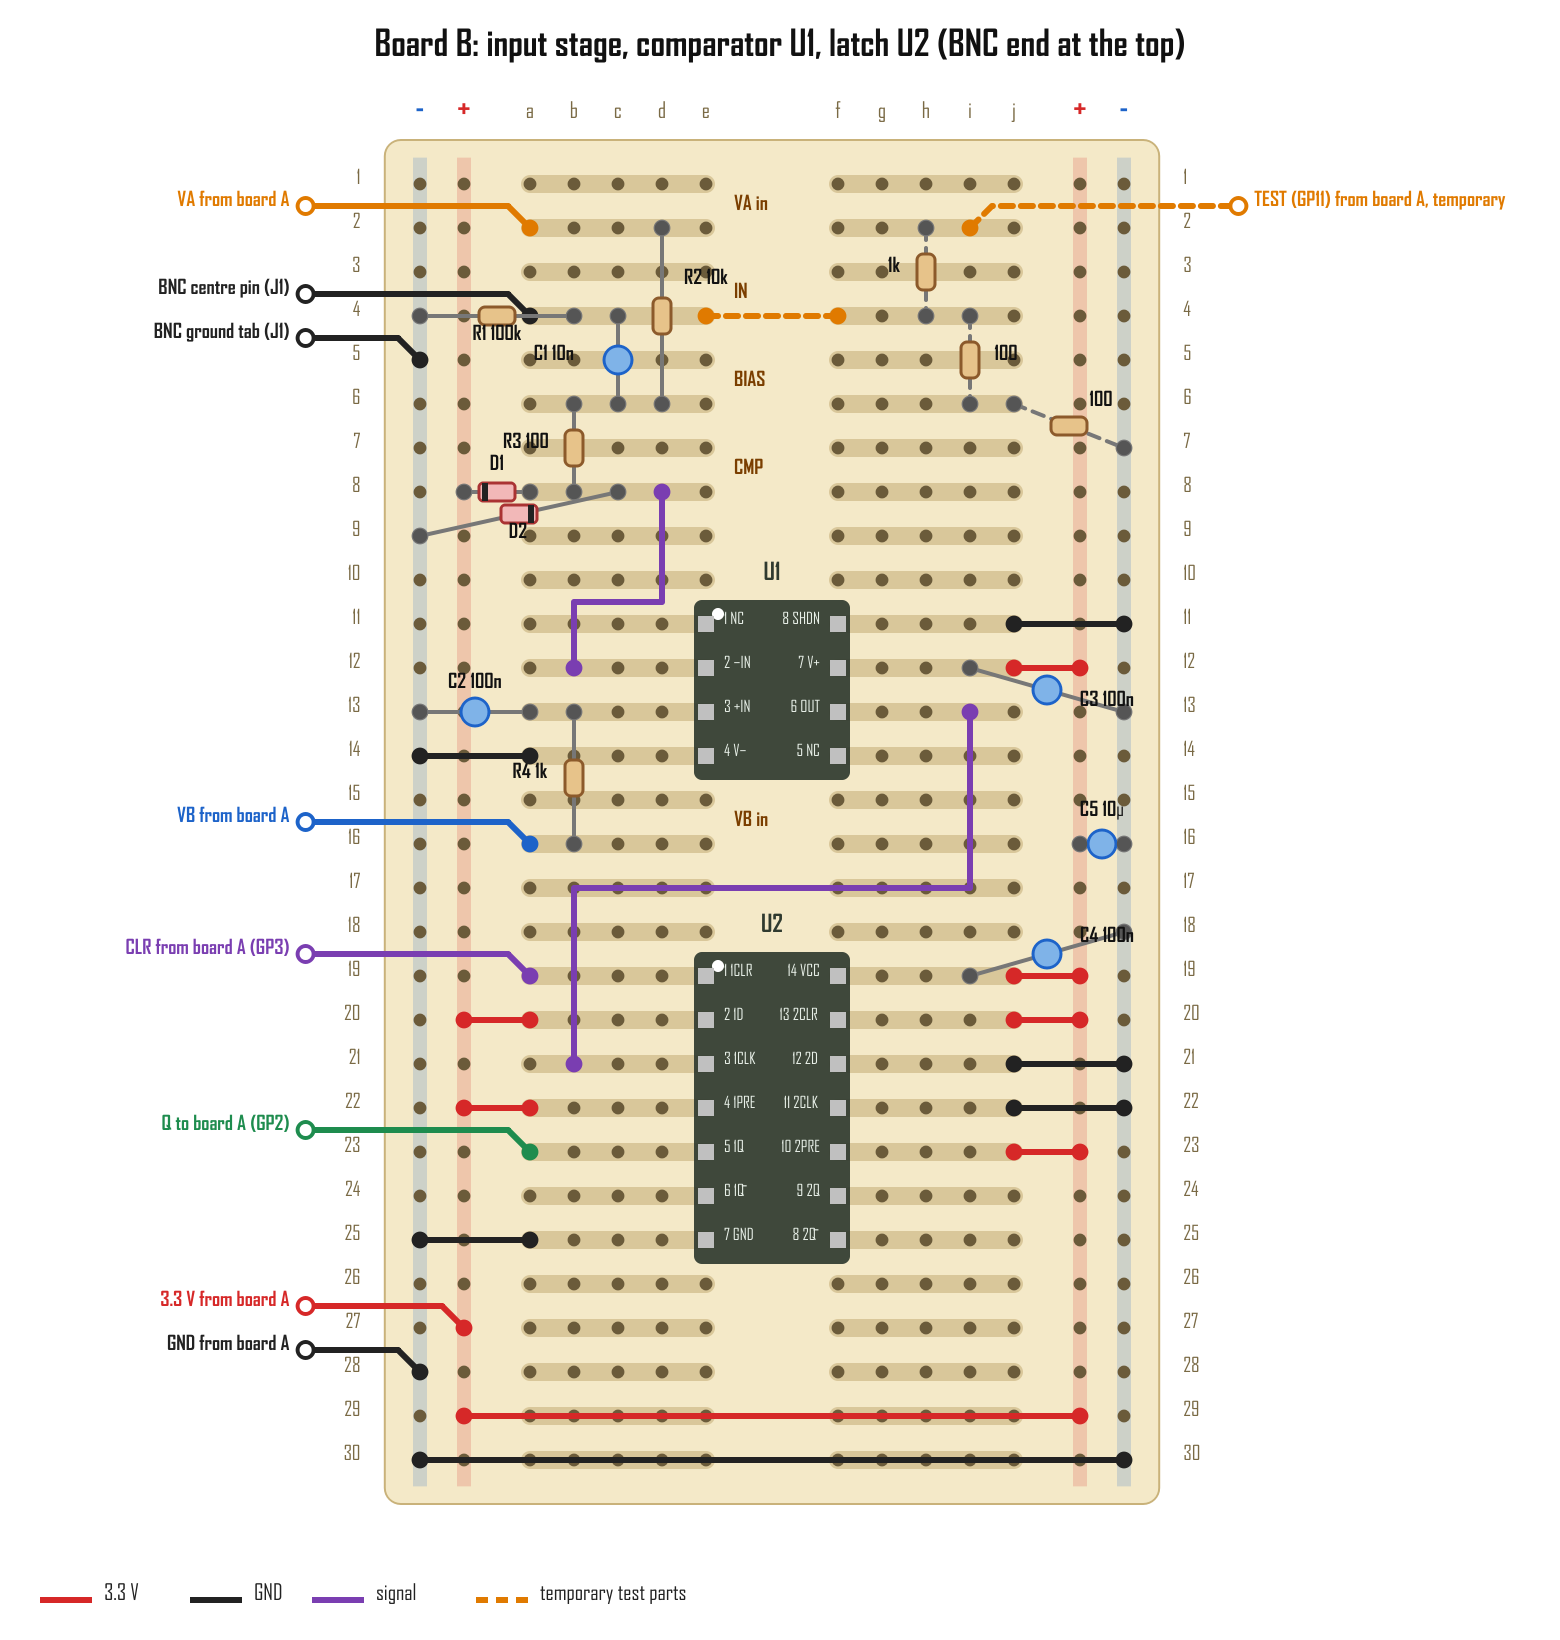
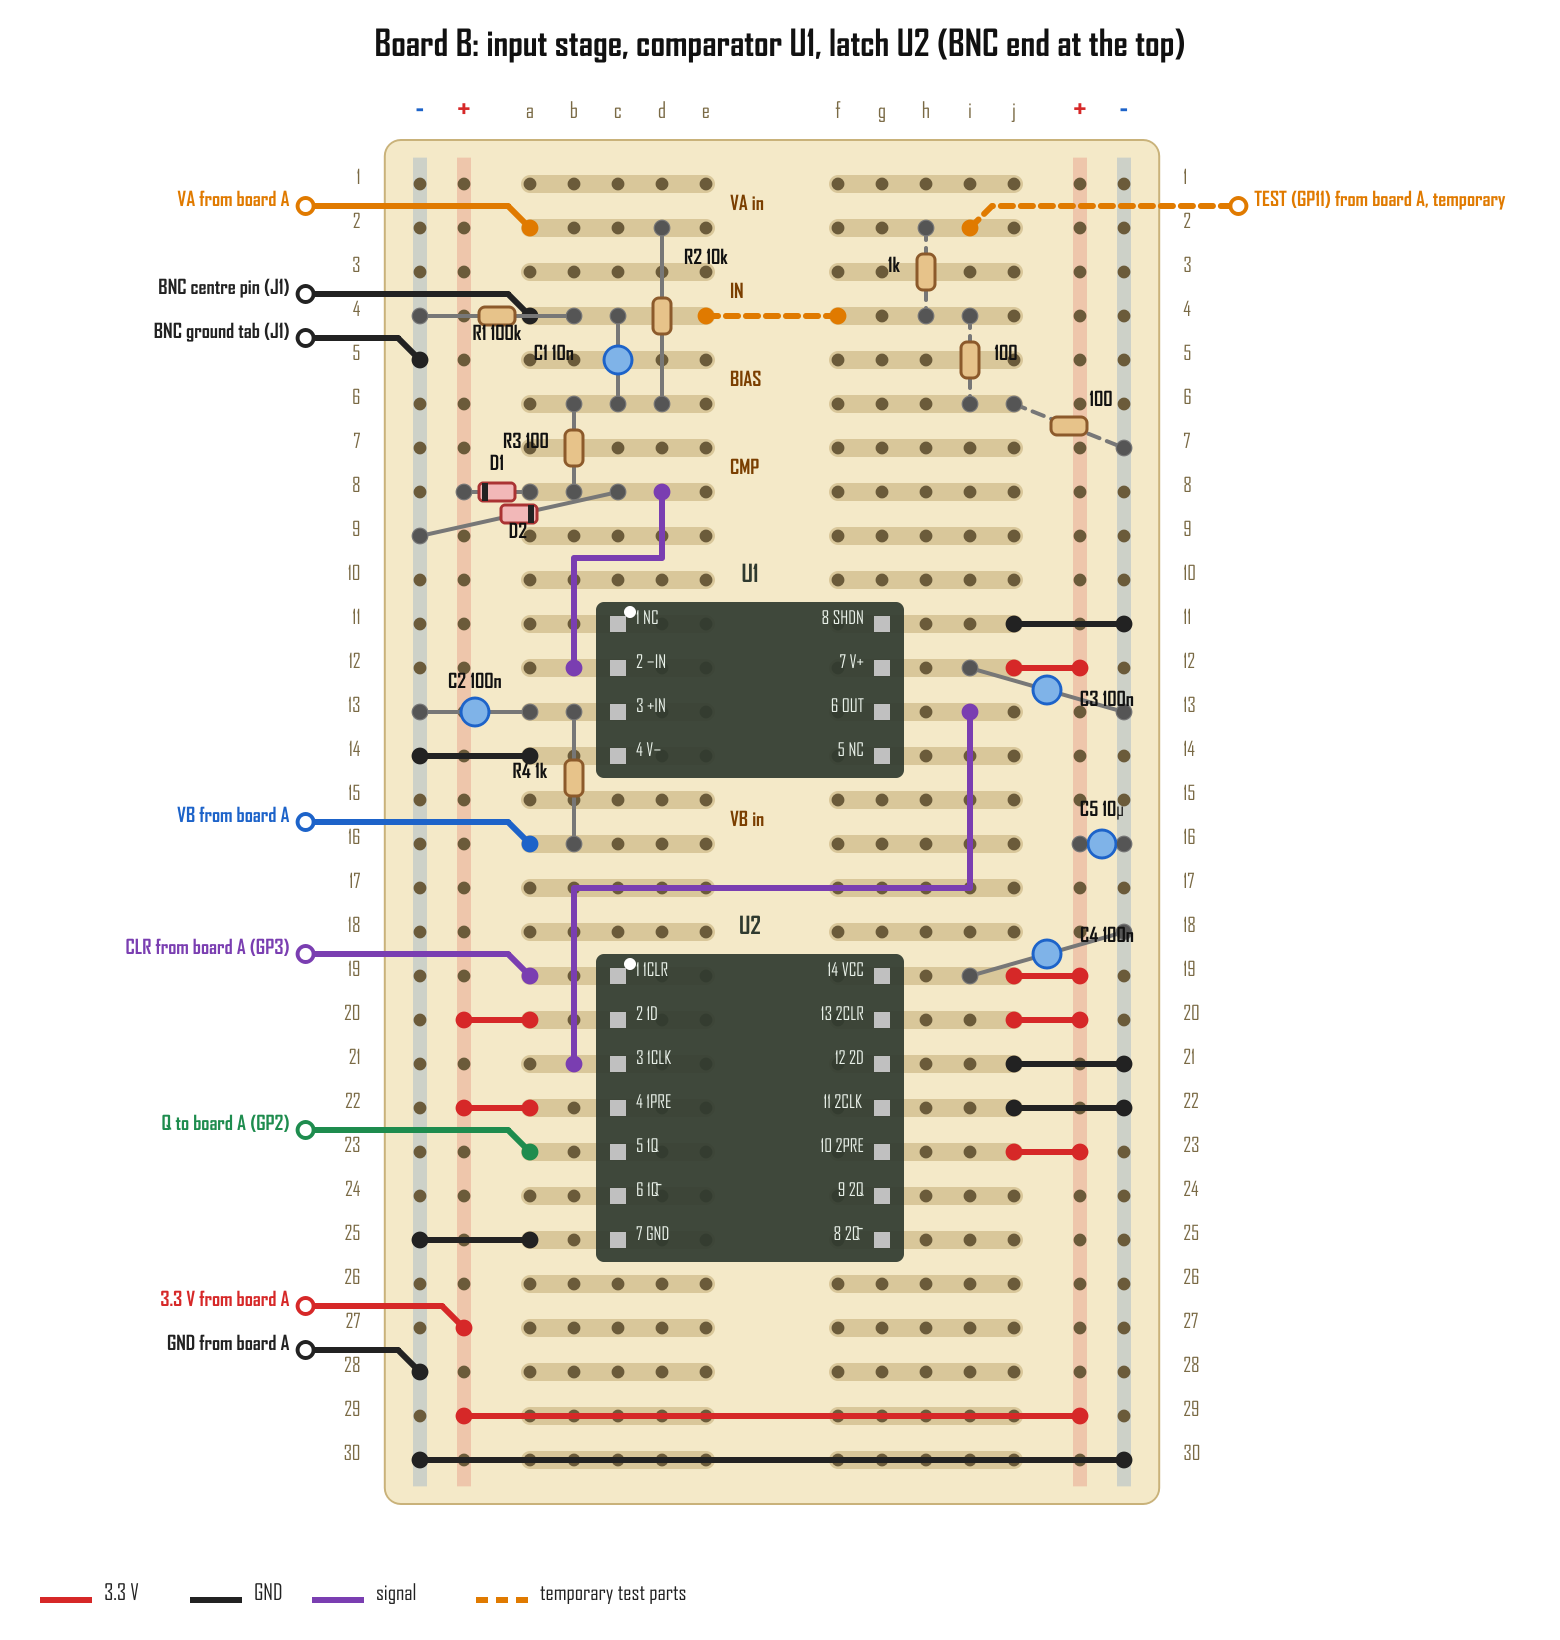
Build guide: adapters at columns c/g (0.6" rows); clearer checks
The standard PA0001/PA0003 adapters (not the compact "C" versions)
have 0.6" pin rows, so the diagrams now show them in columns c and g;
e/f remains the fallback. No connections change: all of them use holes
a/b and i/j. Verified by extracting the netlist from the drawing
script: all 13 board B nets match hardware.md, no hole used twice.

Also: the in-circuit reverse diode reading may not be OL, and the DAC
outputs can be up to about 20 mV off and still be within spec.

diff --git a/docs/img/make_board_diagrams.py b/docs/img/make_board_diagrams.py
@@ -98,21 +98,21 @@ def part(svg, a, b, kind, label, color=BROWN, label_dx=0, label_dy=0, dashed=Fal
 
 
 def chip(svg, rows, name, left_pins, right_pins):
-    """A DIP adapter straddling the center gap with its pins in columns e and f, pin 1 at top left."""
+    """A DIP adapter straddling the center gap with its pins in columns c and g (0.6" rows), pin 1 at top left."""
     first, last = rows
-    x1, y1 = xy("e", first)
-    x2, y2 = xy("f", last)
-    svg.add(f'<rect x="{x1 - 6}" y="{y1 - 12}" width="{x2 - x1 + 12}" height="{y2 - y1 + 24}" rx="4" fill="#2F3A2F" opacity="0.92"/>')
-    svg.add(f'<circle cx="{x1 + 6}" cy="{y1 - 5}" r="3" fill="#fff"/>')
-    svg.text((x1 + x2) / 2, y1 - 22, name, 12, "middle", "#2F3A2F", "700")
+    x1, y1 = xy("c", first)
+    x2, y2 = xy("g", last)
+    svg.add(f'<rect x="{x1 - 0.5 * P}" y="{y1 - 0.5 * P}" width="{x2 - x1 + P}" height="{y2 - y1 + P}" rx="4" fill="#2F3A2F" opacity="0.92"/>')
+    svg.add(f'<circle cx="{x1 + 6}" cy="{y1 - 6}" r="3" fill="#fff"/>')
+    svg.text((x1 + x2) / 2, y1 - 0.5 * P - 10, name, 12, "middle", "#2F3A2F", "700")
     for i, label in enumerate(left_pins):
-        x, y = xy("e", first + i)
+        x, y = xy("c", first + i)
         svg.add(f'<rect x="{x - 4}" y="{y - 4}" width="8" height="8" fill="#C0C0C0"/>')
-        svg.text(x + 9, y, label, 8.5, "start", "#E8F0E8")
+        svg.text(x + 9, y, label, 9, "start", "#E8F0E8")
     for i, label in enumerate(right_pins):
-        x, y = xy("f", first + i)
+        x, y = xy("g", first + i)
         svg.add(f'<rect x="{x - 4}" y="{y - 4}" width="8" height="8" fill="#C0C0C0"/>')
-        svg.text(x - 9, y, label, 8.5, "end", "#E8F0E8")
+        svg.text(x - 9, y, label, 9, "end", "#E8F0E8")
 
 
 def offboard(svg, hole, side, label, color, dashed=False):
@@ -198,18 +198,18 @@ def board_b():
          ["14 VCC", "13 2CLR", "12 2D", "11 2CLK", "10 2PRE", "9 2Q", "8 2Q̄"])
     # Node labels
     for row, name in ((2, "VA in"), (4, "IN"), (6, "BIAS"), (8, "CMP"), (16, "VB in")):
-        svg.text(xy("e", row)[0] + 14, xy("e", row)[1] - 9, name, 10.5, "start", "#7A3E00", "700")
+        svg.text(xy("e", row)[0] + 12, xy("e", row)[1] - 9, name, 10.5, "start", "#7A3E00", "700")
     # Input network
     offboard(svg, ("a", 2), "left", "VA from board A", ORANGE)
     offboard(svg, ("a", 4), "left", "BNC centre pin (J1)", BLACK)
     offboard(svg, ("-L", 5), "left", "BNC ground tab (J1)", BLACK)
     part(svg, ("b", 4), ("-L", 4), "R", "R1 100k", label_dy=12)
     part(svg, ("c", 4), ("c", 6), "C", "C1 10n", label_dx=-32)
-    part(svg, ("d", 2), ("d", 6), "R", "R2 10k", label_dx=22, label_dy=-16)
+    part(svg, ("d", 2), ("d", 6), "R", "R2 10k", label_dx=22, label_dy=-26)
     part(svg, ("b", 6), ("b", 8), "R", "R3 100", label_dx=-24)
     part(svg, ("a", 8), ("+L", 8), "D", "D1", label_dy=-11)
     part(svg, ("-L", 9), ("c", 8), "D", "D2", label_dy=12)  # stripe (cathode) at CMP
-    wire(svg, [("d", 8), ("d", 10.5), ("b", 10.5), ("b", 12)], PURPLE)
+    wire(svg, [("d", 8), ("d", 9.5), ("b", 9.5), ("b", 12)], PURPLE)
     # Threshold
     offboard(svg, ("a", 16), "left", "VB from board A", BLUE)
     part(svg, ("b", 16), ("b", 13), "R", "R4 1k", label_dx=-22)

diff --git a/docs/build-guide.md b/docs/build-guide.md
@@ -145,8 +145,9 @@ USB end toward row 1. Every pin should be in the socket, none hanging off the en
    - `bias=` about **1500** and `thr_meas=` about **−400** (the Pico's own rough readback, ±20 mV is fine)
    - `ID?` should answer `fw=0.2.0`
 3. **Keithley 2000** on DC volts. Black lead on ground (any −R rail hole), red lead on:
-   - the DAC **VA** row → **1.500 V** (within a few mV)
-   - the DAC **VB** row → **1.100 V**
+   - the DAC **VA** row → **1.500 V** (typically within a few mV; up to ±20 mV is still within the DAC's spec)
+   - the DAC **VB** row → **1.100 V** (same tolerance)
+   - Write both readings down. The threshold the box really uses is VB − VA, which is −400 mV when everything is ideal.
 4. Type `THR -250` → VB should become **1.250 V**. `THR -700` → **0.800 V**. Then `THR -400` to go back.
    VB is the threshold; the comparator compares the signal against it. Your multimeter just watched you move it.
 5. Leave the terminal (Ctrl + ]) and unplug the USB.
@@ -158,12 +159,17 @@ If `dac=0`: see Troubleshooting.
 ## Stage 3: Board B (input stage, comparator, latch)
 
 ### 3a. Mount the two adapters
-1. Push the two **7-pin** strips (long ends down) into board B **rows 19–25**, one strip in **column e**, one in **column f**.
+Your adapters (PA0001, PA0003, the standard size, not the "C" compact ones) almost certainly have their two pin rows
+**0.6" apart**, so their pins go in **columns c and g**, as drawn. Check before soldering: hold an adapter over the board
+with one pin row over column c. The other row should line up with column g. (If instead the rows are only 0.3" apart,
+fitting e and f across the centre gap, use **e and f**. All the connections below still work, because they only use holes
+**a, b** on the left and **i, j** on the right.)
+
+1. Push the two **7-pin** strips (long ends down) into board B **rows 19–25**, one strip in **column c**, one in **column g**.
    Set the latch adapter (PA0003) on top with **pin 1 at row 19, left side**. Solder the pins on top of the adapter, then flip the
    board and solder them underneath.
-2. Same for the comparator adapter (PA0001): two **4-pin** strips in **rows 11–14**, columns e and f, **pin 1 at row 11, left side**.
-3. If your adapters' two pin rows are **wider apart** than columns e–f allow, put the pins in **columns c and g** instead.
-   Everything else stays the same, because all the connections below use only holes **a, b** (left) and **i, j** (right).
+2. Same for the comparator adapter (PA0001): two **4-pin** strips in **rows 11–14**, columns c and g, **pin 1 at row 11, left side**.
+3. The adapter boards cover holes c–g in their rows. That's expected; nothing else goes in those holes.
 
 Pin layout once mounted (pin 1 top-left, numbers go down the left and back up the right):
 
@@ -258,8 +264,10 @@ USB unplugged, boards **not** connected yet. Multimeter on board B only.
 | R2 | L2 to L6 | ≈ 10 kΩ |
 | R3 | L6 to L8 | ≈ 100 Ω |
 | R4 | L16 to L13 | ≈ 1 kΩ |
-| D2 direction | diode mode: red on − rail, black on L8 | ≈ 0.2–0.4 V. Swap the probes → "OL". |
-| D1 direction | diode mode: red on L8, black on + rail | ≈ 0.2–0.4 V. Swap → "OL". |
+| D2 direction | diode mode: red on − rail, black on L8 | ≈ 0.2–0.4 V. Swap the probes → noticeably higher (OL, or above ~1 V; the chips can give a reading here). |
+| D1 direction | diode mode: red on L8, black on + rail | ≈ 0.2–0.4 V. Swap → noticeably higher. |
+
+If a diode reads ≈ 0.2–0.4 V the *wrong* way round and high the right way, it's in backwards. Fix it before going on.
 
 Anything that doesn't match: fix it now. It's much easier than after power-up.
 
